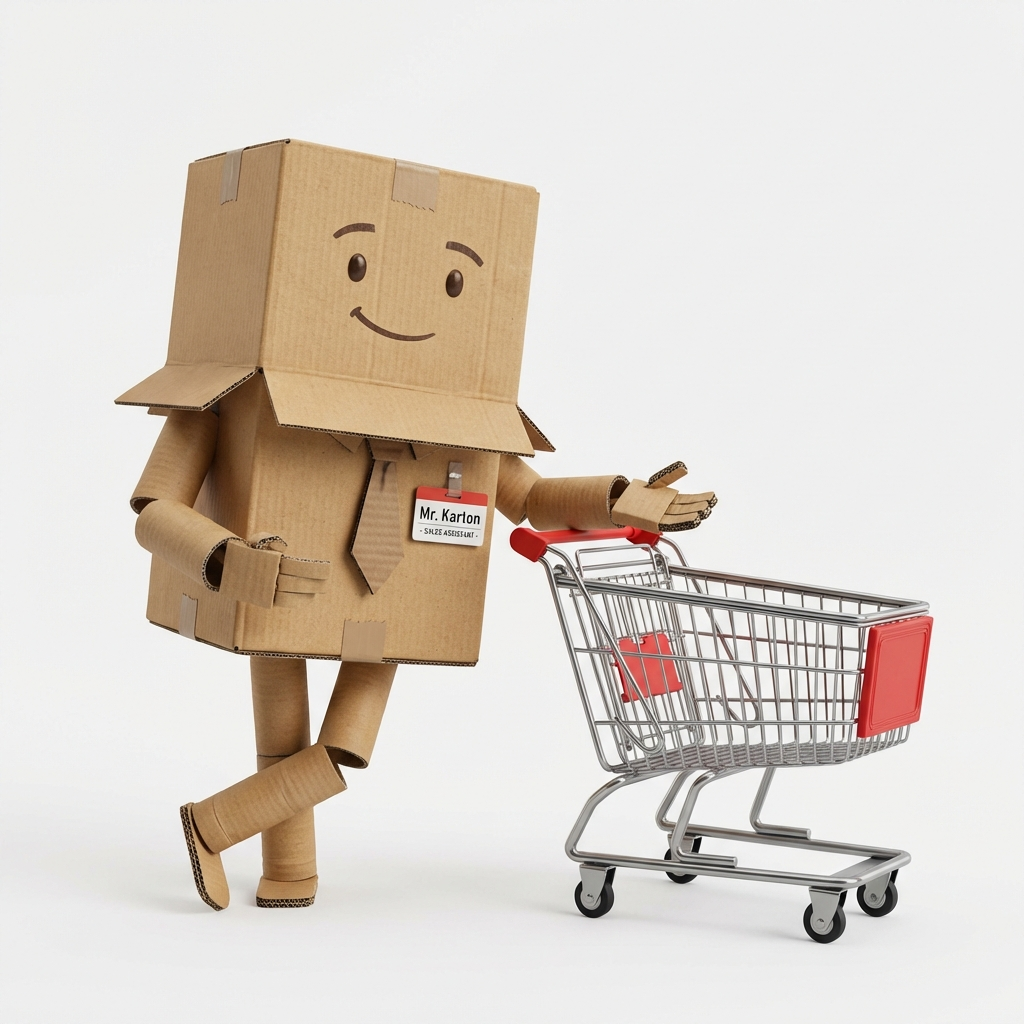
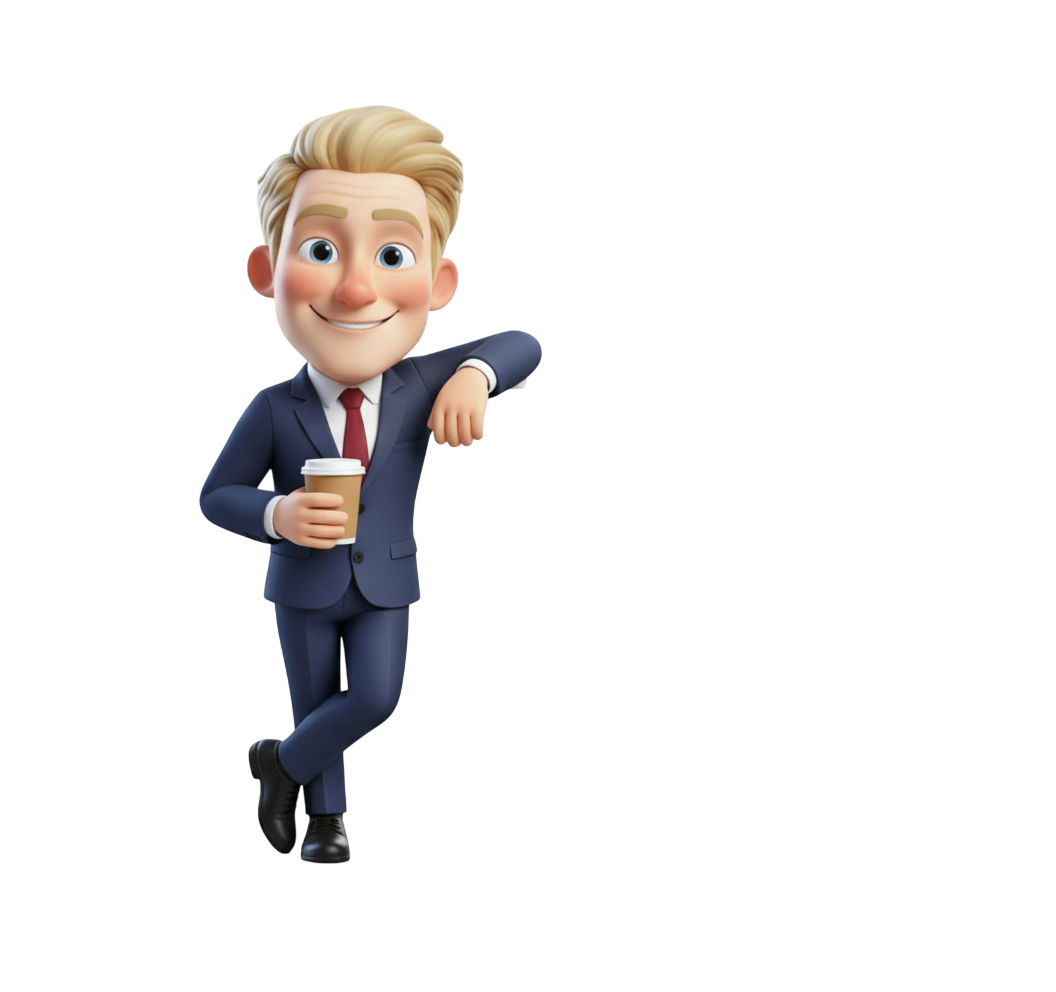
Admin panel campaign preview, new campaign styles, and profile modal fix

diff --git a/index.html b/index.html
@@ -141,13 +141,22 @@
                 <i class="fas fa-shopping-cart" id="open-cart-modal">
                     <span id="cart-count">0</span>
                 </i>
-                <i class="fas fa-user" id="open-profile-modal"></i>
+                <i class="fas fa-user" id="open-profile-modal" style="cursor: pointer;"></i>
                 <div class="hamburger">
                     <i class="fas fa-bars"></i>
                 </div>
             </div>
         </div>
     </nav>
+    <script>
+        document.addEventListener('DOMContentLoaded', () => {
+             const pm = document.getElementById('profile-modal');
+             const opm = document.getElementById('open-profile-modal');
+             const cl = document.querySelector('.profile-close');
+             if(opm) opm.addEventListener('click', () => { if(pm) pm.style.display = 'block'; });
+             if(cl) cl.addEventListener('click', () => { if(pm) pm.style.display = 'none'; });
+        });
+    </script>
 
     <main>
     <section class="slider container">
@@ -1297,42 +1306,82 @@
                 container.innerHTML = '';
                 const isEn = localStorage.getItem('lang') === 'en';
 
+                // --- YENİ KAMPANYA MANTIĞI & GÖRSELLEŞTİRME ---
+                // Kampanyaları API'den çek (Eğer yukarıda çekilmediyse, burada çekmeye gerek yok, ama garanti olsun)
+                let campaigns = [];
+                try {
+                     const cRes = await fetch('/api/campaigns');
+                     if(cRes.ok) campaigns = await cRes.json();
+                } catch(e){}
+
                 products.forEach(p => {
                     const name = isEn ? (p.name_en || p.name_tr) : p.name_tr;
                     const desc = isEn ? (p.description_en || p.description_tr) : p.description_tr;
                     
                     const card = document.createElement('div');
                     card.className = 'product-card';
+                    card.style.position = 'relative'; // Ensure positioning context
                     
-                    // Determine if Active Campaign
-                    let campaignBadge = '';
-                    let isPremium = false;
-                    
-                    // Logic: If there is a bulk discount defined, treat as campaign
-                    if (p.bulk_rate && p.bulk_threshold) {
-                        isPremium = true;
-                        card.classList.add('premium-campaign');
-                        const campText = isEn ? `%${p.bulk_rate} Sale on ${p.bulk_threshold}+` : `%${p.bulk_rate} İNDİRİM`;
-                        campaignBadge = `<div class="campaign-badge">${campText}</div>`;
+                    // Campaign Data Logic
+                    let activeCampaign = null;
+                    if (p.campaign_id && campaigns) {
+                        activeCampaign = campaigns.find(c => c.id == p.campaign_id);
                     }
                     
-                    // Discount Badge (Old Price vs Current)
-                    let discountBadge = '';
-                    if (p.old_price && parseFloat(p.old_price) > parseFloat(p.price)) {
-                        const discountRate = Math.round(((p.old_price - p.price) / p.old_price) * 100);
-                        discountBadge = `<div class="discount-badge" style="${isPremium ? 'top:50px;' : ''}">-${discountRate}%</div>`;
-                    }
+                    // Determine Styling based on Campaign
+                    let borderColor = 'transparent';
+                    let topBadge = '';
+                    let bottomBadge = '';
+                    let descHtml = '';
                     
-                    // Hot badge logic
-                    let hotBadge = '';
-                    if (p.status === 'hot') {
-                        hotBadge = `<div class="hot-badge"><i class="fas fa-fire"></i> FIRSAT</div>`;
+                    if (activeCampaign) {
+                        borderColor = activeCampaign.border_color || '#ffd700'; // Default Gold
+                        const textColor = activeCampaign.text_color || '#000';
+                        
+                        // Apply Border
+                        card.style.border = `3px solid ${borderColor}`;
+                        card.style.boxShadow = `0 0 15px ${borderColor}40`; // 40 = alpha opacity
+                        
+                        // Top Badge
+                        if(activeCampaign.top_text) {
+                            topBadge = `
+                                <div style="position:absolute; top:-12px; left:50%; transform:translateX(-50%); background:${borderColor}; color:${textColor}; padding:4px 12px; border-radius:12px; font-size:11px; font-weight:800; z-index:20; white-space:nowrap; box-shadow:0 4px 6px rgba(0,0,0,0.1);">
+                                    ${activeCampaign.top_text}
+                                </div>
+                            `;
+                        }
+                        
+                        // Bottom Badge
+                        if(activeCampaign.bottom_text) {
+                            bottomBadge = `
+                                <div style="position:absolute; bottom:-12px; left:50%; transform:translateX(-50%); background:${borderColor}; color:${textColor}; padding:4px 12px; border-radius:12px; font-size:11px; font-weight:800; z-index:20; white-space:nowrap; box-shadow:0 4px 6px rgba(0,0,0,0.1);">
+                                    ${activeCampaign.bottom_text}
+                                </div>
+                            `;
+                             // Add extra padding to bottom of card to accommodate badge
+                             card.style.paddingBottom = "15px";
+                        }
+                        
+                        // Description
+                        if(activeCampaign.description) {
+                            descHtml = `<div style="font-size:11px; color:#666; font-style:italic; margin-bottom:5px;">✨ ${activeCampaign.description}</div>`;
+                        }
+                    } else if (p.bulk_rate && p.bulk_threshold) {
+                         // Default "Bulk" style if no custom campaign
+                         topBadge = `<div class="discount-badge" style="left:auto; right:auto; top:-10px; left:50%; transform:translateX(-50%); font-size:11px; padding:4px 10px;">%${p.bulk_rate} İNDİRİM</div>`;
+                         card.style.border = '2px dashed #ef4444';
                     }
 
+                    // Hot badge logic (if separate from campaign)
+                    let hotBadge = '';
+                    if (p.status === 'hot' && !activeCampaign) {
+                        hotBadge = `<div class="hot-badge"><i class="fas fa-fire"></i> FIRSAT</div>`;
+                    }
+                    
+                    // Render Card
                     card.innerHTML = `
+                        ${topBadge}
                         <img src="${p.image || 'images/bardak.png'}" alt="${name}" class="product-img" loading="lazy" onclick="openProductDetail('${p.id}')">
-                        ${campaignBadge}
-                        ${discountBadge}
                         ${hotBadge}
                         <div class="product-info">
                             <h3 class="product-title" onclick="openProductDetail('${p.id}')">${name}</h3>
@@ -1340,7 +1389,7 @@
                                 ${p.old_price && parseFloat(p.old_price) > parseFloat(p.price) ? `<span style="text-decoration:line-through; font-size:14px; color:#94a3b8; margin-right:5px;">₺${parseFloat(p.old_price).toLocaleString('tr-TR')}</span>` : ''}
                                 ₺${parseFloat(p.price).toLocaleString('tr-TR', { minimumFractionDigits: 2 })}
                             </div>
-                            ${isPremium ? `<div style="font-size:11px; color:#e11d48; font-weight:700; margin-bottom:10px;">🔥 ${p.bulk_threshold} Alana %${p.bulk_rate} İndirim!</div>` : ''}
+                            ${descHtml}
                             <div class="product-actions">
                                 <button class="add-to-cart" data-name="${p.name_tr}" onclick="addToCart('${p.id}', '${p.name_tr.replace(/'/g, "\\'")}', ${p.price})">
                                     <i class="fas fa-shopping-cart"></i> ${isEn?'Add':'Sepete Ekle'}
@@ -1350,6 +1399,7 @@
                                 </button>
                             </div>
                         </div>
+                        ${bottomBadge}
                     `;
                     
                     container.appendChild(card);

diff --git a/admin.html b/admin.html
@@ -199,6 +199,46 @@
                     <option value="danger">Acil / Kırmızı</option>
                 </select>
             </div>
+            <div class="form-row">
+                 <div class="form-group">
+                    <label>Çerçeve Rengi</label>
+                    <input type="color" id="c-border-color" class="editable-input" value="#ffd700">
+                </div>
+                <div class="form-group">
+                    <label>Metin Rengi</label>
+                    <input type="color" id="c-text-color" class="editable-input" value="#000000">
+                </div>
+            </div>
+            <div class="form-group">
+                <label>Üst Yazı (Örn: FIRSAT)</label>
+                <input type="text" id="c-top-text" class="editable-input" placeholder="Çerçevenin üstünde yazar" oninput="updateCampaignPreview()">
+            </div>
+            <div class="form-group">
+                <label>Alt Yazı (Örn: %20 İndirim)</label>
+                <input type="text" id="c-bottom-text" class="editable-input" placeholder="Çerçevenin altında yazar" oninput="updateCampaignPreview()">
+            </div>
+             <div class="form-group">
+                <label>Açıklama (Kısa)</label>
+                <input type="text" id="c-desc" class="editable-input" placeholder="Örn: Bardak alana kaşık bedava" oninput="updateCampaignPreview()">
+            </div>
+
+            <!-- PREVIEW BOX -->
+            <div style="margin-top:20px; border-top:1px solid #eee; padding-top:15px;">
+                <label style="margin-bottom:10px; display:block;">Önizleme (Temsili):</label>
+                <div id="c-preview-box" style="width:200px; height:280px; background:#fff; border:4px solid #ffd700; border-radius:15px; position:relative; margin:0 auto; box-shadow:0 10px 20px rgba(0,0,0,0.1); display:flex; flex-direction:column; align-items:center; justify-content:center;">
+                    
+                    <div id="c-preview-top" style="position:absolute; top:-12px; background:#ffd700; color:#000; padding:2px 10px; border-radius:10px; font-size:10px; font-weight:800; letter-spacing:1px;">FIRSAT</div>
+                    
+                    <img src="images/bardak.png" style="width:100px; height:100px; object-fit:contain; margin-bottom:10px;">
+                    
+                    <div style="font-weight:700; font-size:14px; margin-bottom:5px;">Ürün Adı</div>
+                    <div style="color:green; font-weight:800;">₺100.00</div>
+                    
+                    <div id="c-preview-desc" style="font-size:10px; color:#666; text-align:center; padding:5px; margin-top:5px;">Kampanya detayı buraya</div>
+
+                    <div id="c-preview-bottom" style="position:absolute; bottom:-12px; background:#ffd700; color:#000; padding:2px 10px; border-radius:10px; font-size:10px; font-weight:800; letter-spacing:1px;">%20 İNDİRİM</div>
+                </div>
+            </div>
             <div style="display:flex; justify-content:flex-end; gap:10px; margin-top:20px;">
                 <button class="btn btn-secondary" onclick="closeModal('campaign-modal')">İptal</button>
                 <button class="btn btn-primary" onclick="handleCampaignSave()">Kampanyayı Kaydet</button>
@@ -655,23 +695,66 @@
 
         // --- KAMPANYA YÖNETİMİ ---
         let editCampaignIdx = -1;
-        function openAddCampaign() {
             editCampaignIdx = -1;
             document.getElementById('c-modal-title').innerText = "Yeni Kampanya";
             document.getElementById('c-name').value = "";
             document.getElementById('c-theme').value = "premium";
+            // Reset New Fields
+            document.getElementById('c-top-text').value = "";
+            document.getElementById('c-bottom-text').value = "";
+            document.getElementById('c-desc').value = "";
+            document.getElementById('c-border-color').value = "#ffd700";
+            document.getElementById('c-text-color').value = "#000000";
+            
+            updateCampaignPreview();
             document.getElementById('campaign-modal').style.display = 'flex';
+        }
+
+        function updateCampaignPreview() {
+             const top = document.getElementById('c-top-text').value || "ÜST YAZI";
+             const bottom = document.getElementById('c-bottom-text').value || "ALT YAZI";
+             const desc = document.getElementById('c-desc').value || "Kampanya açıklaması...";
+             const border = document.getElementById('c-border-color').value;
+             const text = document.getElementById('c-text-color').value;
+             
+             const box = document.getElementById('c-preview-box');
+             const tEl = document.getElementById('c-preview-top');
+             const bEl = document.getElementById('c-preview-bottom');
+             const dEl = document.getElementById('c-preview-desc');
+             
+             if(box) box.style.borderColor = border;
+             if(tEl) { tEl.innerText = top; tEl.style.backgroundColor = border; tEl.style.color = text; }
+             if(bEl) { bEl.innerText = bottom; bEl.style.backgroundColor = border; bEl.style.color = text; }
+             if(dEl) dEl.innerText = desc;
         }
         
         function handleCampaignSave() {
             const name = document.getElementById('c-name').value;
             const theme = document.getElementById('c-theme').value;
+            // Get new fields
+            const top_text = document.getElementById('c-top-text').value;
+            const bottom_text = document.getElementById('c-bottom-text').value;
+            const description = document.getElementById('c-desc').value;
+            const border_color = document.getElementById('c-border-color').value;
+            const text_color = document.getElementById('c-text-color').value;
+
             if(!name) return alert("Kampanya adı gerekli!");
             
-            const cmp = { id: 'c-'+Date.now(), name, theme };
+            const cmp = { 
+                id: 'c-'+Date.now(), 
+                name, 
+                theme,
+                top_text,
+                bottom_text,
+                description,
+                border_color,
+                text_color
+            };
             
             if(editCampaignIdx > -1) {
-                campaigns[editCampaignIdx] = { ...campaigns[editCampaignIdx], name, theme };
+                // Preserve ID
+                const oldId = campaigns[editCampaignIdx].id;
+                campaigns[editCampaignIdx] = { ...cmp, id: oldId };
             } else {
                 campaigns.push(cmp);
             }
